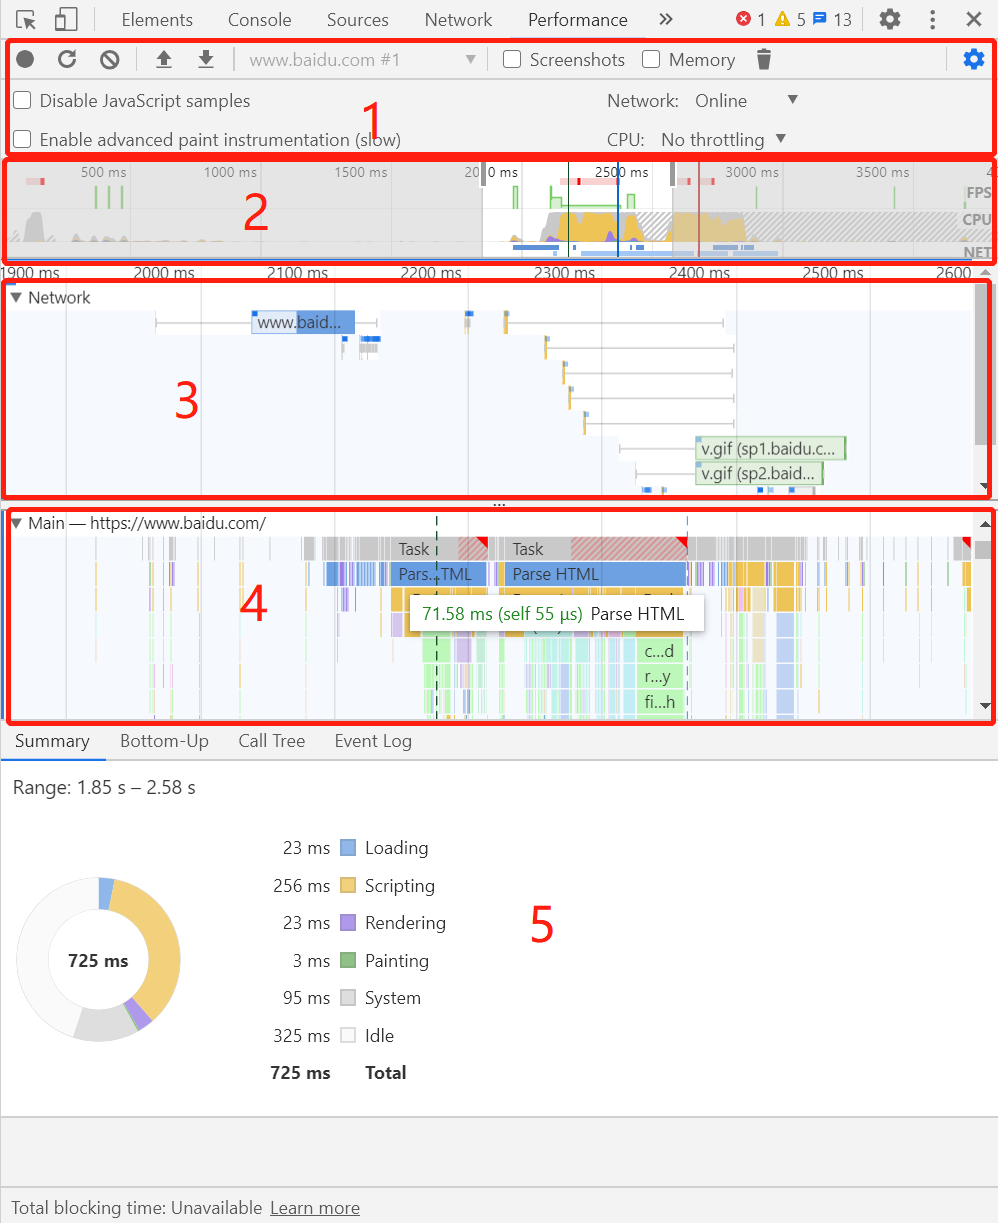
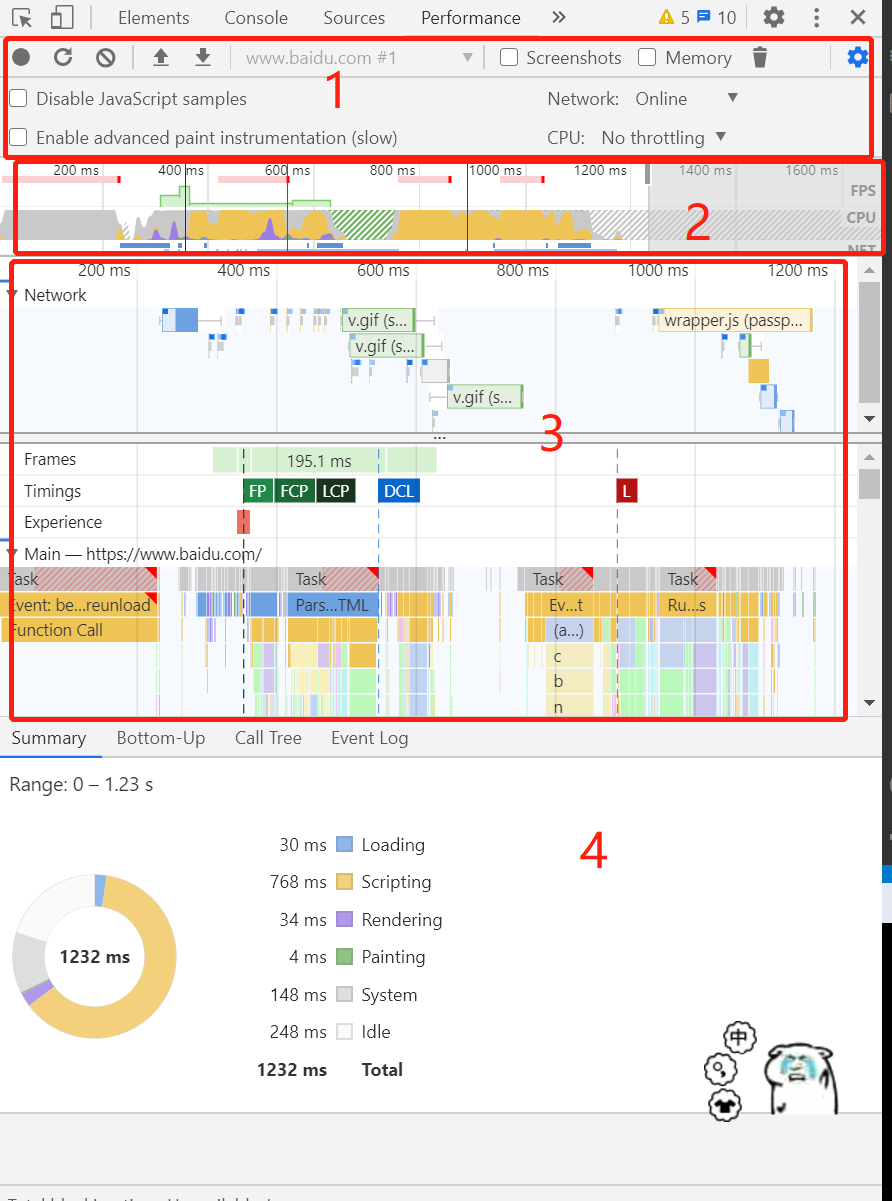
performance继续补充内容

diff --git a/chrome_developer_dev-tool/performance.md b/chrome_developer_dev-tool/performance.md
@@ -1,4 +1,8 @@
 ## performance面板
+> [performance文档](https://developers.google.com/web/tools/chrome-devtools/evaluate-performance/reference)
+
+> [experience-report](https://developers.google.com/web/tools/chrome-user-experience-report)
+
 ### 这块应该怎么用？
 看图说话
 <br><br><br>
@@ -16,9 +20,8 @@
 
 * 1. 开始记录，停止记录和配置记录期间捕获的信息
 * 2. 页面性能的高级汇总
-* 3. 网络请求具体表现
-* 4. CPU 堆叠追踪的可视化。
-* 5. 选择事件后，此窗格会显示与该事件有关的更多信息。 未选择事件时，此窗格会显示选定时间范围的相关信息。
+* 3. 网络请求具体表现、CPU 堆叠追踪的可视化等
+* 4. 选择事件后，此窗格会显示与该事件有关的更多信息。 未选择事件时，此窗格会显示选定时间范围的相关信息。
 
 ### 第一块再详细点？比如screenshots和memory
 <br><br><br>
@@ -27,12 +30,28 @@
 </div>
 <br><br><br>
 
-1. screenshots 在记录期间捕捉屏幕截图，这就不怕网速太快，看不了网页的具体表现
-2. memory 没懂
-3. collect garbage(垃圾箱图标) 没懂
-3. network 限制网速
-4. cpu 限制cpu，可调节比常用的cpu慢多少倍
-network和cpu其实都是为了模拟手机效果
+1. screenshots 在记录期间捕捉屏幕截图
+2. memory 展示内存使用情况
+
+<br><br><br>
+<div align="center">
+  <img src="https://github.com/jiulanrensan/blog/blob/master/chrome_developer_dev-tool/img/performance_memory.png" width="70%" />
+</div>
+<br><br><br>
+
+3. collect garbage(垃圾箱图标) 释放浏览器内存
+
+4. Disable JavaScript Samples 选项开启会使工具忽略记录 JS 的调用栈
+5. network 限制网速
+6. cpu 限制cpu，可调节比常用的cpu慢多少倍
+7. Enable advanced paint instrumentation 记录渲染事件的细节，点击frames其中一项，下方4区域就多了一个layer
+<br><br><br>
+<div align="center">
+  <img src="https://github.com/jiulanrensan/blog/blob/master/chrome_developer_dev-tool/img/performance_instrumentation.gif" width="70%" />
+</div>
+<br><br><br>
+
+4-7 其实都是为了模拟手机效果
 
 ### 接着
 
@@ -42,11 +61,13 @@ network和cpu其实都是为了模拟手机效果
 </div>
 <br><br><br>
 
-> fps: frames per second 即每秒帧数，如果大于60fps,则表示非常流畅
+> fps: frames per second 即每秒帧数，浏览器一般为60fps
 
 1. 如果在fps这一列看到红色的横条，表示浏览器帧率下降，用户体验会不好；而绿色的块状图越高，则表示fps越高，体验越好
 
 2. CPU这一part记录期间表示CPU的使用情况，颜色与下面的summary对应
+
+3. net就是网络请求，看区域3的network
 
 <br><br><br>
 <div align="center">
@@ -54,12 +75,124 @@ network和cpu其实都是为了模拟手机效果
 </div>
 <br><br><br>
 
+
+### 区域3 
+<br><br><br>
+<div align="center">
+  <img src="https://github.com/jiulanrensan/blog/blob/master/chrome_developer_dev-tool/img/performance_area3.png" width="70%" />
+</div>
+<br><br><br>
+
+#### 1. network 网络线程，各资源的网络请求详情
+
+请求根据种类不同分为以下几种颜色：
+* HTML: Blue
+* CSS: Purple
+* JS: Yellow
+* Images: Green
+
+点击`www.baidu.com`如图a
+<br><br><br>
+<div align="center">
+  <img src="https://github.com/jiulanrensan/blog/blob/master/chrome_developer_dev-tool/img/performance_network.png" width="70%" />
+</div>
+<br><br><br>
+
+附上一张network的timing图配合食用：图b
+<br><br><br>
+<div align="center">
+  <img src="https://github.com/jiulanrensan/blog/blob/master/chrome_developer_dev-tool/img/network_timing.png" width="70%" />
+</div>
+<br><br><br>
+
+可以看到这个蓝色横条有很多细节，我们逐个拆分：
+* 左上角有个深蓝色的小正方形，表示这是高优先级的请求；若是浅蓝色，则表示是低优先级。这个优先级可以在下方的summary中查看priority属性
+* 蓝色横条最左边的细线：这里包含图b'Connection Start'中的事件，也就是在'Request Sent'之前
+* 次左的浅蓝色长方形：Request Sent 和 Waiting (TTFB)
+* 次右的深蓝色长方形：Content Download
+* 最右的细线： 等待主线程的时间，这个在图b中没有体现
+
+#### 2. frames 帧线程，点击绿色长方形可以看到fps
+<br><br><br>
+<div align="center">
+  <img src="https://github.com/jiulanrensan/blog/blob/master/chrome_developer_dev-tool/img/performance_frames.png" width="70%" />
+</div>
+<br><br><br>
+
+#### 3. timings 没懂，绿色虚线是FP(first paint)开始
+
+#### 4. experience 用户体验
+[cls](https://web.dev/cls/?utm_source=devtools)
+> How to improve CLS
+> 对于大多数网站，您可以遵循一些指导原则来避免所有意外的布局变化：
+> 
+> * 请务必在图片和视频元素上包含size属性，否则，请使用CSS宽高比框保留所需的空间. 这种方法可确保在加载图像时浏览器可以在文档中分配正确的空间量. 请注意，您 还可以使用unsize-media功能部件策略在支持功能部件策略的浏览器中强制执行此行为.
+>
+> * 除非响应用户交互，否则切勿在现有内容上方插入内容. 这样可以确保可以预期发生任何版式移位.
+> 
+> * 优先于变换动画而不是触发布局更改的属性动画. 对过渡进行动画处理，以提供状态与状态之间的上下文和连续性.
+
+#### 5. main 主线程：负责执行Javascript, 解析HTML/CSS, 完成绘制
+
+##### 5.1
+也叫作火焰图，只是这个火焰图是倒过来的，最上面的表示顶级的js函数，调用栈最长，越往下调用栈越小。默认情况下，这个面板会记录js调用栈中的每层函数，而勾选了【Disable JavaScript Samples】之后，火焰图只会精确到事件级别（调用某个 JS 文件中的函数是一个事件），忽略该事件下的所有函数调用栈
+
+##### 5.2
+<br><br><br>
+<div align="center">
+  <img src="https://github.com/jiulanrensan/blog/blob/master/chrome_developer_dev-tool/img/performance_event.png" width="70%" />
+</div>
+<br><br><br>
+
+区域2、区域3的main线程、区域4的summary的不同颜色，他们其实都是统一的标准，代表各种事件：
+
+* 蓝色：加载（Loading）事件
+* 黄色：脚本运算（Scripting）事件
+* 紫色：渲染（Rendering）事件
+* 绿色：绘制（Painting）事件
+* 灰色：其他（Other）（有时候是system）
+* 闲置：浏览器空闲
+
+而每个大类事件又有子类事件，见[此](https://developers.google.com/web/tools/chrome-devtools/evaluate-performance/performance-reference)
+
+常见的子类事件，从网上扒来的图：
+<br><br><br>
+<div align="center">
+  <img src="https://user-gold-cdn.xitu.io/2018/8/4/16502c7e66d45e9a?imageView2/0/w/1280/h/960/format/webp/ignore-error/1" width="70%" />
+</div>
+<br><br><br>
+
+#### 6. raster线程，负责完成某个layer或者某些块(tile)的绘制
+
+#### 7. GPU线程
+
+#### 8. chrome子线程
+
+#### 9. compositor 没懂
+找到相关浏览器渲染内容
+
+[compositing layer](https://zhuanlan.zhihu.com/p/88288584)
+
+[浏览器渲染详细过程](https://juejin.im/entry/6844903476506394638)
+
+
+### 区域4
+* summary 统计图：展示各个事件阶段耗费的时间
+* Bottom-Up 排序：可以看到各个事件消耗时间排序 
+  * self-time 指除去子事件这个事件本身消耗的时间 
+  * total-time 这个事件从开始到结束消耗的时间（包含子事件）
+* Call Tree 调用栈：Main选择一个事件，可以看到整个事件的调用栈（从最顶层到最底层，而不是只有当前事件）
+* Event Log 事件日志 
+  * 多了个start time，指事件在多少毫秒开始触发的 
+  * 右边有事件描述信息
+
+
 ### 找到性能瓶颈?
 1. 根据下面的summary的环状图，可以知道哪个过程耗费时间最长
 2. 展开main, 横坐标是记录期间的时间轴，纵坐标代表调用栈
 3. main的横条右上角如果有一个红色三角，就表示这个事件是有问题的
-4. 点击横条，下面的summary就会有这个事件的详细信息
+4. 点击横条，下面的summary就会有这个事件的详细信息，可以找到耗费时间最长的事件
 
 [上一章：source](https://github.com/jiulanrensan/blog/blob/master/chrome_developer_dev-tool/source.md)
 
-[下一章：performance](https://github.com/jiulanrensan/blog/blob/master/chrome_developer_dev-tool/performance.md)
+[下一章：memory](https://github.com/jiulanrensan/blog/blob/master/chrome_developer_dev-tool/memory.md)
